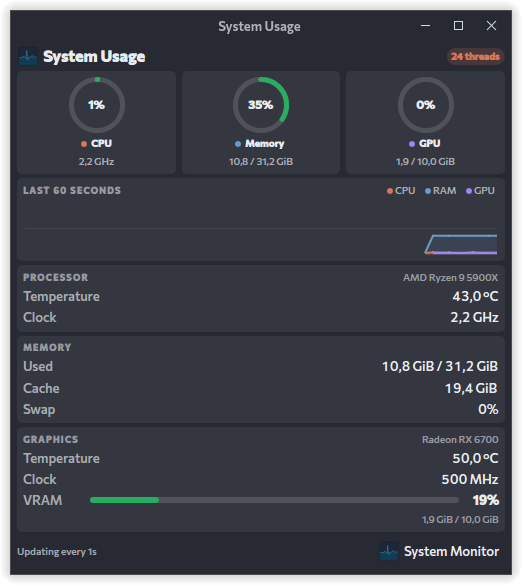
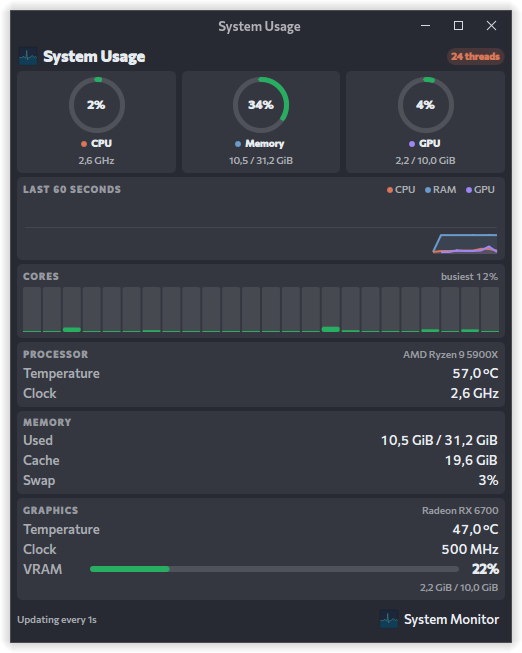
Fix settings page and chart bugs, tidy code
- Settings: show the saved panel style/layout instead of always the
  first option, inset and size number boxes consistently, accept typed
  values with units and either decimal separator, keep yellow below red
- Share one UnitSpinBox component for all numeric settings
- Trend chart: don't record samples before sensors deliver a value
- Remove unused imports/properties and the split panel padding
- Update screenshot

diff --git a/package/contents/ui/configGeneral.qml b/package/contents/ui/configGeneral.qml
@@ -20,6 +20,26 @@ KCM.SimpleKCM {
     property alias cfg_warnThreshold: warnSpin.value
     property alias cfg_critThreshold: critSpin.value
 
+    // SpinBox showing value / scale with a unit suffix, e.g. 85 -> "8,5 pt" with scale 10
+    component UnitSpinBox: QQC2.SpinBox {
+        property string suffix
+        property int scale: 1
+        property int decimals: 0
+
+        // Same width everywhere so the boxes line up; the desktop style puts the text flush
+        // against the left border, so inset it
+        Layout.preferredWidth: Kirigami.Units.gridUnit * 6
+        leftPadding: Kirigami.Units.mediumSpacing
+        // Accept the suffix and either decimal separator when typing
+        validator: RegularExpressionValidator { regularExpression: /\d+([.,]\d+)?\s*\S*/ }
+        textFromValue: function(value, locale) {
+            return (value / scale).toLocaleString(locale, 'f', decimals) + suffix
+        }
+        valueFromText: function(text, locale) {
+            return Math.round(parseFloat(text.replace(",", ".")) * scale)
+        }
+    }
+
     Kirigami.FormLayout {
         QQC2.ComboBox {
             id: styleCombo
@@ -31,7 +51,8 @@ KCM.SimpleKCM {
                 { text: i18n("Bars"), value: "bar" },
                 { text: i18n("Text"), value: "text" }
             ]
-            currentIndex: Math.max(0, indexOfValue(cfg_panelStyle))
+            // Select once the model is populated; a binding runs before that and sticks at 0
+            Component.onCompleted: currentIndex = Math.max(0, indexOfValue(cfg_panelStyle))
             onActivated: cfg_panelStyle = currentValue
         }
 
@@ -43,7 +64,8 @@ KCM.SimpleKCM {
                 { text: i18n("Horizontal"), value: "horizontal" },
                 { text: i18n("Vertical"), value: "vertical" }
             ]
-            currentIndex: Math.max(0, indexOfValue(cfg_panelLayout))
+            // Select once the model is populated; a binding runs before that and sticks at 0
+            Component.onCompleted: currentIndex = Math.max(0, indexOfValue(cfg_panelLayout))
             onActivated: cfg_panelLayout = currentValue
         }
 
@@ -53,6 +75,7 @@ KCM.SimpleKCM {
         Item { Kirigami.FormData.isSection: true }
 
         RowLayout {
+            spacing: Kirigami.Units.largeSpacing
             Kirigami.FormData.label: i18n("Font:")
             QQC2.CheckBox {
                 id: customFont
@@ -78,6 +101,7 @@ KCM.SimpleKCM {
         }
 
         RowLayout {
+            spacing: Kirigami.Units.largeSpacing
             Kirigami.FormData.label: i18n("Number size:")
             QQC2.CheckBox {
                 id: customSize
@@ -85,14 +109,13 @@ KCM.SimpleKCM {
                 checked: cfg_panelFontSize > 0
                 onToggled: cfg_panelFontSize = checked ? sizeSpin.value / 10 : 0
             }
-            QQC2.SpinBox {
+            UnitSpinBox {
                 id: sizeSpin
                 enabled: customSize.checked
-                // Stored in tenths of a point so half-point steps are possible
+                // Tenths of a point so half-point steps are possible
+                suffix: " pt"; scale: 10; decimals: 1
                 from: 40; to: 300; stepSize: 5
                 value: cfg_panelFontSize > 0 ? Math.round(cfg_panelFontSize * 10) : 60
-                textFromValue: function(v) { return (v / 10).toLocaleString(Qt.locale(), 'f', 1) + " pt" }
-                valueFromText: function(t) { return Math.round(Number.fromLocaleString(Qt.locale(), t.replace(/\s*pt$/, "")) * 10) }
                 onValueModified: cfg_panelFontSize = value / 10
             }
         }
@@ -111,27 +134,25 @@ KCM.SimpleKCM {
 
         Item { Kirigami.FormData.isSection: true }
 
-        QQC2.SpinBox {
+        UnitSpinBox {
             id: intervalSpin
             Kirigami.FormData.label: i18n("Update interval:")
+            suffix: " s"; scale: 1000; decimals: 2
             from: 250; to: 10000; stepSize: 250
-            textFromValue: function(v) { return (v / 1000).toLocaleString(Qt.locale(), 'f', 2) + " s" }
-            valueFromText: function(t) { return Math.round(Number.fromLocaleString(Qt.locale(), t.replace(/\s*s$/, "")) * 1000) }
         }
 
-        QQC2.SpinBox {
+        // Yellow must stay below red, or the yellow band disappears
+        UnitSpinBox {
             id: warnSpin
             Kirigami.FormData.label: i18n("Yellow at:")
-            from: 1; to: 99
-            textFromValue: function(v) { return v + "%" }
-            valueFromText: function(t) { return parseInt(t) }
+            suffix: "%"
+            from: 1; to: critSpin.value - 1
         }
-        QQC2.SpinBox {
+        UnitSpinBox {
             id: critSpin
             Kirigami.FormData.label: i18n("Red at:")
-            from: 2; to: 100
-            textFromValue: function(v) { return v + "%" }
-            valueFromText: function(t) { return parseInt(t) }
+            suffix: "%"
+            from: warnSpin.value + 1; to: 100
         }
     }
 }

diff --git a/package/contents/ui/TrendChart.qml b/package/contents/ui/TrendChart.qml
@@ -26,6 +26,10 @@ Canvas {
         var w = width - 2 * pad
         var h = height - 2 * pad
 
+        // Right-align so the newest sample is always at the right edge
+        function px(offset, i) { return pad + w * (offset + i) / (capacity - 1) }
+        function py(v) { return pad + h - h * Math.max(0, Math.min(v, 100)) / 100 }
+
         // Faint 50% gridline
         ctx.strokeStyle = Qt.alpha(Kirigami.Theme.textColor, 0.08)
         ctx.lineWidth = 1
@@ -38,22 +42,19 @@ Canvas {
             var vals = series[s].values
             if (!vals || vals.length < 2) continue
 
-            // Right-align so the newest sample is always at the right edge
             var offset = capacity - vals.length
-            function px(i) { return pad + w * (offset + i) / (capacity - 1) }
-            function py(v) { return pad + h - h * Math.max(0, Math.min(v, 100)) / 100 }
 
             ctx.beginPath()
-            ctx.moveTo(px(0), height)
-            for (var i = 0; i < vals.length; i++) ctx.lineTo(px(i), py(vals[i]))
-            ctx.lineTo(px(vals.length - 1), height)
+            ctx.moveTo(px(offset, 0), height)
+            for (var i = 0; i < vals.length; i++) ctx.lineTo(px(offset, i), py(vals[i]))
+            ctx.lineTo(px(offset, vals.length - 1), height)
             ctx.closePath()
             ctx.fillStyle = Qt.alpha(series[s].color, 0.12)
             ctx.fill()
 
             ctx.beginPath()
-            ctx.moveTo(px(0), py(vals[0]))
-            for (var j = 1; j < vals.length; j++) ctx.lineTo(px(j), py(vals[j]))
+            ctx.moveTo(px(offset, 0), py(vals[0]))
+            for (var j = 1; j < vals.length; j++) ctx.lineTo(px(offset, j), py(vals[j]))
             ctx.strokeStyle = series[s].color
             ctx.lineWidth = 2
             ctx.lineJoin = "round"

diff --git a/package/contents/ui/main.qml b/package/contents/ui/main.qml
@@ -4,7 +4,6 @@
 
 import QtQuick
 import QtQml
-import QtQuick.Layouts
 import org.kde.plasma.plasmoid
 import org.kde.plasma.core as PlasmaCore
 import org.kde.kirigami as Kirigami
@@ -112,8 +111,9 @@ PlasmoidItem {
         repeat: true
         triggeredOnStart: true
         onTriggered: {
-            root.cpuHistory = root.pushSample(root.cpuHistory, root.cpuPercent)
-            root.ramHistory = root.pushSample(root.ramHistory, root.ramUsagePercent)
+            // Skip sensors that haven't delivered a first value yet, so charts don't start with a fake 0
+            if (root.ready(cpuUsage)) root.cpuHistory = root.pushSample(root.cpuHistory, root.cpuPercent)
+            if (root.ready(ramPercent)) root.ramHistory = root.pushSample(root.ramHistory, root.ramUsagePercent)
             if (root.hasGpu) root.gpuHistory = root.pushSample(root.gpuHistory, root.gpuPercent)
 
             var cores = []
@@ -146,11 +146,11 @@ PlasmoidItem {
     readonly property var panelMetrics: {
         var list = []
         if (Plasmoid.configuration.showCpu !== false)
-            list.push({ key: "cpu", label: "CPU", percent: root.cpuPercent })
+            list.push({ label: "CPU", percent: root.cpuPercent })
         if (Plasmoid.configuration.showRam !== false)
-            list.push({ key: "ram", label: "RAM", percent: root.ramUsagePercent })
+            list.push({ label: "RAM", percent: root.ramUsagePercent })
         if (Plasmoid.configuration.showGpu !== false && root.hasGpu)
-            list.push({ key: "gpu", label: "GPU", percent: root.gpuPercent })
+            list.push({ label: "GPU", percent: root.gpuPercent })
         return list
     }
 

diff --git a/package/contents/ui/CompactView.qml b/package/contents/ui/CompactView.qml
@@ -12,13 +12,9 @@ Item {
     readonly property real fontSize: Plasmoid.configuration.panelFontSize || 0   // 0 = automatic per style
     readonly property bool fontBold: Plasmoid.configuration.panelFontBold !== false
 
-    // Horizontal padding (kept separate so the right side can be tuned independently)
-    readonly property real leftPad: Kirigami.Units.largeSpacing
-    readonly property real rightPad: Kirigami.Units.largeSpacing
-
-    Layout.minimumWidth: usageRow.implicitWidth + leftPad + rightPad
+    Layout.minimumWidth: usageRow.implicitWidth + Kirigami.Units.largeSpacing * 2
     Layout.minimumHeight: root.isVerticalLayout ? usageRow.implicitHeight + Kirigami.Units.largeSpacing * 2 : Kirigami.Units.iconSizes.medium
-    Layout.preferredWidth: usageRow.implicitWidth + leftPad + rightPad
+    Layout.preferredWidth: usageRow.implicitWidth + Kirigami.Units.largeSpacing * 2
     Layout.preferredHeight: root.isVerticalLayout ? usageRow.implicitHeight + Kirigami.Units.largeSpacing * 2 : -1
 
     MouseArea {
@@ -33,7 +29,6 @@ Item {
     GridLayout {
         id: usageRow
         anchors.centerIn: parent
-        anchors.horizontalCenterOffset: (compact.leftPad - compact.rightPad) / 2
         columns: root.isVerticalLayout ? 1 : -1
         rows: root.isVerticalLayout ? -1 : 1
         flow: root.isVerticalLayout ? GridLayout.TopToBottom : GridLayout.LeftToRight
@@ -54,7 +49,6 @@ Item {
             delegate: GridLayout {
                 id: metric
                 required property var modelData
-                required property int index
 
                 readonly property color usageColor: root.getUsageColor(modelData.percent)
 

diff --git a/CLAUDE.md b/CLAUDE.md
@@ -55,6 +55,7 @@ Launch external programs through the `launcher` DataSource in `main.qml` (e.g. `
 - Per-metric accents: CPU `#D97757`, RAM `#6A9BCC`, GPU `#9C87F5`.
 - Panel number sizes use `font.pointSize`, not `font.pixelSize`: `pixelSize` is an int, so in-between sizes get truncated. Convert with pt = px × 0.75.
 - Panel font family, size and weight come from the `panelFont*` config keys; `0` / empty means automatic. New text in the panel should respect them.
+- Numeric settings use the `UnitSpinBox` inline component in `configGeneral.qml` (suffix, scale, decimals); it handles width, padding, typed input with either decimal separator, and display.
 - Adding a setting means three edits: an `<entry>` in `main.xml`, a `cfg_<name>` property plus control in `configGeneral.qml`, and reading `Plasmoid.configuration.<name>` where it's used.
 
 ## License
